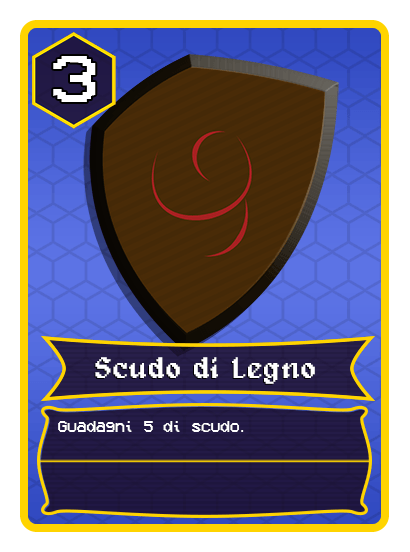
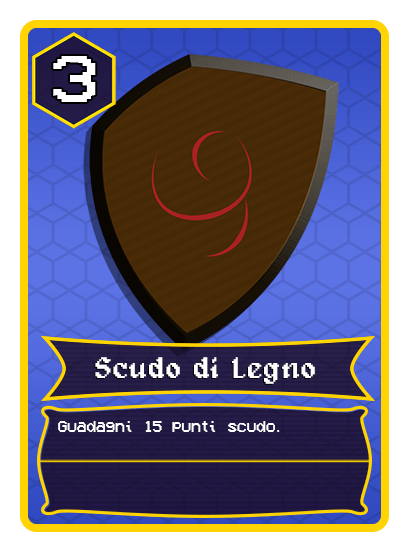
:hammer: Card correction and introduction
Ho modificato il mazzo con le nuove carte e ho apportato modifiche in modo tale che Ice e Poison non facciano andare in palla il gioco. Versione stabile - presente ancora sporadicamente bug player riga 67 e 76

Changed region(s): [[0.3512, 0.7391, 0.6732, 0.8007], [0.761, 0.2156, 0.7902, 0.308], [0.7902, 0.154, 0.8195, 0.1848]]

diff --git a/BattleScene/Enemy_BattleScene/Enemy_BattleScene.cs b/BattleScene/Enemy_BattleScene/Enemy_BattleScene.cs
@@ -21,6 +21,7 @@ public partial class Enemy_BattleScene : Characters_Battle, DeckUse
 	private CollisionShape2D collisionShape2D;
 	private Player_BattleScene player;
 	private CardAnimation cardAnimation_toawait;
+	private bool turnDone = false; //se il turno è finito (serve per evitare che il turno si ripeta a causa di ice)
 	#endregion
 	
 	#region NATURE ———————————————————————————————————————————————————————————————————————————
@@ -55,6 +56,8 @@ public partial class Enemy_BattleScene : Characters_Battle, DeckUse
 	
 	#region FUNZIONI ———————————————————————————————————————————————————————————————————————————
 	public void EndTurn(){ //termina il turno
+		GD.Print("Enemy: " + GetParent().Name + " EndTurn");
+		turnDone = false;
 		IsTurn = false;
 		EmitSignal("EndTurnSignal"); //invia il segnale per terminare il turno e passare al successivo
 	}
@@ -327,12 +330,10 @@ public partial class Enemy_BattleScene : Characters_Battle, DeckUse
 		return choosenCards; //resituiamo la coda di carte pronta per essere eseguita
 	}
 	public async void ExecutionCard(Queue<Card> cards){ //funzione per eseguire le carte
-		/*TESTING*/ GD.Print("Turno nemico iniziato");
 		Is_attacking = true; //l'enemy sta attaccando
 		var cards_count = cards.Count; //contiamo le carte, bisogna farlo prima perchè la coda cambia
 		for(int i = 0; i < cards_count; i++){
 			if (cards.Peek().ManaValue <= Mana){ //se la carta ha un costo minore o uguale al mana
-				/*TESTING*/ GD.Print("Carta eseguita: " + cards.Peek().CardName + " Mana: " + cards.Peek().ManaValue);
 				var selectedCard = cards.Dequeue(); //selezioniamo la carta
 				UseMana(selectedCard.ManaValue); //usiamo il mana
 				if (selectedCard.CardTarget == 2 /*Opponent*/){ // la carta è rivolta contro un avversario (player)
@@ -340,8 +341,8 @@ public partial class Enemy_BattleScene : Characters_Battle, DeckUse
 					selectedCard.ExecuteCard(player);
 					BattleDeck.HandsCard.RemoveCard(selectedCard); //rimuoviamo la carta dalla mano
 					EmitSignal("AnimateCardOnPlayer", selectedCard); //Animiamo la carta sul player
-				} else { //la carta è rivolta contro se stesso (nemico)
-					Animate("Attack"); //Animiamo il nemico che attacca
+				} else if (selectedCard.CardTarget == 1 /*Self*/){ //la carta è rivolta contro se stesso (nemico)
+					Animate("Passive"); //Animiamo il nemico che attacca
 					selectedCard.ExecuteCard(this);
 					BattleDeck.HandsCard.RemoveCard(selectedCard); //rimuoviamo la carta dalla mano
 					EmitSignal("AnimateCardOnEnemy", selectedCard, this); //animiamo la carta sul nemico
@@ -349,11 +350,9 @@ public partial class Enemy_BattleScene : Characters_Battle, DeckUse
 				await ToSignal(cardAnimation_toawait, "EnemyCardAnimationFinished"); //aspettiamo che l'animazione finisca
 				EmitSignal("CheckStatusBattleSignal"); //controlliamo lo stato della battaglia se qualcuno è morto
 			} else {
-				/*TESTING*/ GD.Print("Carta non eseguita: " + cards.Peek().Name);
 				continue;
 			}
 		}
-		/*TESTING*/ GD.Print("Turno nemico finito");
 		//una volta ciclate tutte le carte, finiamo il turno
 		Is_attacking = false;
 		EndTurn();
@@ -405,15 +404,20 @@ public partial class Enemy_BattleScene : Characters_Battle, DeckUse
 	}
 
 	public void _on_battle_scene_is_turn_signal(){ //funzione del segnale IsTurnSignal per eseguire la mossa quando è il turno del nemico
-        if (IsTurn){
-		    ResetMana(); //resettiamo il mana
-            DrawCard(); //peschiamo una carta
-			
-			//ENEMY AI
-			PlayerStatusAnalysis(player); //analizziamo lo stato del player
-			EnemyStatusAnalysis(); //analizziamo lo stato del nemico
-			var choosenCards = CardsInHandAnalysis(); //analizziamo le carte in mano
-			ExecutionCard(choosenCards); //eseguiamo le carte
+		/*TESTING*/GD.Print("Enemy: " + GetParent().Name + " IsTurn: " + IsTurn + " TurnDone: " + turnDone);
+		if (IsTurn && turnDone == false){
+			if (IsOnIce == false){
+				ResetMana(); //resettiamo il mana
+            	DrawCard(); //peschiamo una carta
+				//ENEMY AI
+				PlayerStatusAnalysis(player); //analizziamo lo stato del player
+				EnemyStatusAnalysis(); //analizziamo lo stato del nemico
+				var choosenCards = CardsInHandAnalysis(); //analizziamo le carte in mano
+				ExecutionCard(choosenCards); //eseguiamo le carte
+				turnDone = true;
+			} else if (IsOnIce) {
+				EndTurn();
+			} 
         }
     }
 
@@ -438,6 +442,10 @@ public partial class Enemy_BattleScene : Characters_Battle, DeckUse
 	public bool IsBoss{
 		get{return isBoss;}
 		set{isBoss = value;}
+	}
+	public bool TurnDone{
+		get{return turnDone;}
+		set{turnDone = value;}
 	}
 	#endregion
 }

diff --git a/BattleScene/BattleScene.cs b/BattleScene/BattleScene.cs
@@ -129,6 +129,8 @@ public partial class BattleScene : Node2D
 		ChangeTurn();
 	}
 	public void ChangeTurn(){ //funzione collegata tramite segnale Connect in enemy per il cambio turno
+		GD.Print("- - - CAMBIO TURNO - - -");
+		ResetEnemyTurnDone(); //resetta il turndone dei nemici nel caso non venga resettato precedentemente da endturn
 		Marker2D char_turn = turnQueue.Dequeue();
 		switch (char_turn.Name){
 			case "PlayerPosition":
@@ -136,56 +138,59 @@ public partial class BattleScene : Node2D
 				turnButton.Disabled = false; //abilita il bottone per terminare il turno
 				turnQueue.Enqueue(char_turn); //rimetto il player in coda
 				if (player.CheckElementalStatus()){  //controlla se il player è in uno stato elementale e nel caso salta il turno
-					GD.Print("Iced"); //TO-DO EFFETTO GRAFICO ICED
 					turnButton.EmitSignal("pressed"); //funziona solo con pressed e non Pressed
 				};
 				EmitSignal("PassEnemysToSelect", enemys); //passa i nemici selezionati
+				/*TESTING*/GD.Print("IS TURN SIGNAL PLAYER");
 				EmitSignal("IsTurnSignal"); //segnale per far fare la mossa al player
 				break;
 			case "EnemyPosition1":
 				char_turn.GetChild<Enemy_BattleScene>(0).IsTurn = true; //abilita il turno del nemico a fare la mossa
 				turnQueue.Enqueue(char_turn); //rimetto il nemico in coda
-				if (char_turn.GetChild<Enemy_BattleScene>(0).CheckElementalStatus()){  //controlla se il player è in uno stato elementale e nel caso salta il turno
-					char_turn.GetChild<Enemy_BattleScene>(0).EndTurn();
-				};
+				char_turn.GetChild<Enemy_BattleScene>(0).CheckElementalStatus();
 				EmitSignal("PassPlayerToSelect", player); //passa il player, lo faccio ad ogni cambio turno perchè bisogna aggiornare i dati del player
+				/*TESTING*/GD.Print("IS TURN SIGNAL ENEMY1");
 				EmitSignal("IsTurnSignal"); //segnale per far fare la mossa al nemico
 				break;
 			case "EnemyPosition2":
 				char_turn.GetChild<Enemy_BattleScene>(0).IsTurn = true; //abilita il turno del nemico a fare la mossa
 				turnQueue.Enqueue(char_turn); //rimetto il nemico in coda
-				if (char_turn.GetChild<Enemy_BattleScene>(0).CheckElementalStatus()){  //controlla se il player è in uno stato elementale e nel caso salta il turno
-					char_turn.GetChild<Enemy_BattleScene>(0).EndTurn();
-				};
+				char_turn.GetChild<Enemy_BattleScene>(0).CheckElementalStatus();
 				EmitSignal("PassPlayerToSelect", player); //passa il player, lo faccio ad ogni cambio turno perchè bisogna aggiornare i dati del player
+				/*TESTING*/GD.Print("IS TURN SIGNAL ENEMY 2");
 				EmitSignal("IsTurnSignal"); //segnale per far fare la mossa al nemico
 				break;
 			case "EnemyPosition3":
 				char_turn.GetChild<Enemy_BattleScene>(0).IsTurn = true; //abilita il turno del nemico a fare la mossa
 				turnQueue.Enqueue(char_turn); //rimetto il nemico in coda
-				if (char_turn.GetChild<Enemy_BattleScene>(0).CheckElementalStatus()){  //controlla se il player è in uno stato elementale e nel caso salta il turno
-					char_turn.GetChild<Enemy_BattleScene>(0).EndTurn();
-				};
+				char_turn.GetChild<Enemy_BattleScene>(0).CheckElementalStatus();
 				EmitSignal("PassPlayerToSelect", player); //passa il player, lo faccio ad ogni cambio turno perchè bisogna aggiornare i dati del player
+				/*TESTING*/GD.Print("IS TURN SIGNAL ENEMY 3");
 				EmitSignal("IsTurnSignal"); //segnale per far fare la mossa al nemico
 				break;
 		}
 	}
 
-	public void CheckStatusBattle(){ //controlla lo stato della battaglia 
+	public async void CheckStatusBattle(){ //controlla lo stato della battaglia 
 		//return false se la battaglia non è finita, ritorna true se la battaglia è finita
 		CheckEnemysLife(); // controlla quali nemici sono morti e li rimuove
 		if (player.Life <= 0){
 			//gameover
 			player.Animate("Dead");
 			player.PlaySound("dead");
+			await ToSignal(player.AnimationPlayer_char, "animation_finished");
 			GameOver();
 		} else if (CountElements(enemys) == 0){
 			//vittoria
 			Win();
 		}
 	}
-	
+	public void ResetEnemyTurnDone(){
+		foreach (Enemy_BattleScene enemy in enemys.Where(enemy => enemy != null)){
+			enemy.TurnDone = false;
+		}
+	}
+
 	public void Win(){//funzione vittoria da definire
 		//gestito poi da Dungeon
 		EmitSignal("WinSignal");
@@ -268,11 +273,6 @@ public partial class BattleScene : Node2D
 		//avvio l'animazione
 		enemy_BattleScene.GetParent<Marker2D>().GetChild<CardAnimation>(1).PlayAnimation("enemy");
 	}
-
-	/*public void _on_player_character_is_dead(){
-		//se il player muore, allora la battaglia finisce
-		GameOver();
-	}*/
 
 	public void _on_battle_music_finished(){
 		music_counter++;

diff --git a/BattleScene/Characters_Battle.cs b/BattleScene/Characters_Battle.cs
@@ -102,6 +102,7 @@ using System;
 		//faccio partire il suono
 		if (value < 0){ //controlliamo se togliamo o aggiungiamo vita
 			PlaySound("hit");
+			animationPlayer_char.Play("TakeDamage");
 		} else {
 			PlaySound("passive");
 		}
@@ -113,7 +114,7 @@ using System;
 		//controlliamo se la vita è arrivata a 0 e nel caso emettiamo il segnale per dire che il character è morto
 		if(life <= 0){
 				life = 0;
-			}
+		}
 		EmitSignal("UpdateStatsGUI", shield, life, mana, isOnFire, isOnIce, isOnPoison, isOnEarth); //emette il segnale per aggiornare le statsGUI
 	}
 	public void AddMana(int value){ //non dovrebbe servire
@@ -133,6 +134,7 @@ using System;
 		EmitSignal("UpdateStatsGUI", shield, life, mana, isOnFire, isOnIce, isOnPoison, isOnEarth); //emette il segnale per aggiornare le statsGUI
 	}
 	public void ResetMana(){
+		//ghiaccio priorità su veleno per questo eseguito per ultimo
 		if (isOnPoison){
 			mana = max_mana/2;
 		} else {
@@ -156,22 +158,22 @@ using System;
 	public Boolean CheckElementalStatus(){ //funzione per controllare se il character è in uno stato elementale
 	//il character può trovarsi in tutti gli stati elementali
 	//ritorna false se non salta il turno, ritorna true se lo salta.
+		bool skipTurn = false;
 		if (isOnFire){
 			if (fireDamage.Y > 0){
-				TakeDamage((1/6)*life); //riduciamo la vita ad un sesto
+				TakeDamage((int)(0.167F * life)); //riduciamo la vita ad un sesto
 				fireDamage.Y--; //diminuiamo il turno
 			} else {
 				isOnFire = false;
 			}
-			return false;
+			skipTurn = false;
 		}
 		if (isOnIce && iceTurns > 0){
 			iceTurns--; //diminuiamo il turno
 			if (iceTurns == 0){ // se il turno arriva a zero, lo stato si disattiva
 				isOnIce = false;
 			}
-			/*TESTING*/GD.Print(Name + " ice: "+ isOnIce.ToString());
-			return true;
+			skipTurn = true;
 		}
 		if (isOnPoison){
 			if (poisonDamage.Y > 0){
@@ -181,14 +183,14 @@ using System;
 			} else {
 				isOnPoison = false;
 			}
-			return false;
+			skipTurn = false; 
 		}
 		if (isOnEarth){
 			//TO-DO
 		}
 		EmitSignal("UpdateStatsGUI", shield, life, mana, isOnFire, isOnIce, isOnPoison, isOnEarth); //emette il segnale per aggiornare le statsGUI
 		EmitSignal("CheckStatusBattleSignal"); //emette il segnale per controllare se il character è morto o ha ucciso qualcuno
-		return false; // Aggiunto return false per gestire il caso in cui nessuno dei precedenti if venga soddisfatto
+		return skipTurn; // Aggiunto return false per gestire il caso in cui nessuno dei precedenti if venga soddisfatto
 	}
 	public Boolean CheckIfOnStatus(){ //serve a controllare se il character è in uno stato elementale
 		if (isOnFire || isOnIce || isOnPoison || isOnEarth){

diff --git a/Deck/Card/Card.cs b/Deck/Card/Card.cs
@@ -108,7 +108,7 @@ public partial class Card : TextureRect
 				if (foreachEnemy == true) {
 					enemy.AddLife(enemyNumValue * (damageValue + specValue)); //DA CAMBIARE
 				} else if (foreachEnemy == false) {
-					enemy.AddLife(1 + damageValue + specValue); //DA CAMBIARE
+					enemy.AddLife(damageValue + specValue); //DA CAMBIARE
 				}
 				break;
 			case 2: //Shield
@@ -127,7 +127,7 @@ public partial class Card : TextureRect
 				if (foreachEnemy == true) {
 					enemy.AddShield(enemyNumValue * (damageValue + specValue)); //DA CAMBIARE
 				} else if (foreachEnemy == false){
-					enemy.AddShield(1 + damageValue + specValue); //DA CAMBIARE
+					enemy.AddShield(damageValue + specValue); //DA CAMBIARE
 				}
 				break;
 		}
@@ -171,14 +171,14 @@ public partial class Card : TextureRect
 				if (foreachEnemy == true) {
 					player.AddLife(enemyNumValue * (damageValue + specValue)); //DA CAMBIARE
 				} else if (foreachEnemy == false) {
-					player.AddLife(1 + damageValue + specValue); //DA CAMBIARE
+					player.AddLife(damageValue + specValue); //DA CAMBIARE
 				}
 				break;
 			case 2: //Shield
 				if (foreachEnemy == true) {
 					player.AddShield(enemyNumValue * (damageValue + specValue)); //DA CAMBIARE
 				} else if (foreachEnemy == false){
-					player.AddShield(1 + damageValue + specValue); //DA CAMBIARE
+					player.AddShield(damageValue + specValue); //DA CAMBIARE
 				}
 				break;
 			case 3: //HealAndShield
@@ -190,7 +190,7 @@ public partial class Card : TextureRect
 				if (foreachEnemy == true) {
 					player.AddShield(enemyNumValue * (damageValue + specValue)); //DA CAMBIARE
 				} else if (foreachEnemy == false){
-					player.AddShield(1 + damageValue + specValue); //DA CAMBIARE
+					player.AddShield(damageValue + specValue); //DA CAMBIARE
 				}
 				break;
 		}

diff --git a/BattleScene/Dungeon.cs b/BattleScene/Dungeon.cs
@@ -25,8 +25,8 @@ public partial class Dungeon : Node
 		battleWin_Screen = GetNode<Control>("Win_OverContainer/BattleWin_Screen");
 		selectSound = GetNode<AudioStreamPlayer>("SFX&Music/SelectSound");
 
-		gameover_Screen.Hide();
-		battleWin_Screen.Hide();
+		gameover_Screen.GetNode<CanvasLayer>("CanvasLayer").Hide();
+		battleWin_Screen.GetNode<CanvasLayer>("CanvasLayer").Hide();
 	}
 	#endregion
 
@@ -45,7 +45,7 @@ public partial class Dungeon : Node
 		//blocco il processamento della stanza, senza eliminarla
 		roomContainer.GetChild<BattleScene>(0).ProcessMode = Godot.Node.ProcessModeEnum.Disabled;
 		//carico la scena del gameover
-		gameover_Screen.Show();
+		gameover_Screen.GetNode<CanvasLayer>("CanvasLayer").Show();
 	}
 	public void Win(){
 		//blocco il processamento della stanza, senza eliminarla
@@ -54,7 +54,7 @@ public partial class Dungeon : Node
 		room_number++;
 		if (room_number == CountRooms()){ //nel caso il numero della stanza sia uguale alla lunghezza dell'array, significa che ho finito le stanze
 			//carico la scena della vittoria
-			battleWin_Screen.Show();
+			battleWin_Screen.GetNode<CanvasLayer>("CanvasLayer").Show();
 		} else {
 			//carico la scena della stanza successiva
 			ChangeRoomTo(room_number);

diff --git a/Deck/Card/CardAnimation.cs b/Deck/Card/CardAnimation.cs
@@ -14,12 +14,13 @@ public partial class CardAnimation : Sprite2D //Scena da allegare alla Card, è 
 
 	#region ATTRIBUTI ———————————————————————————————————————————————————————————————————————————
 	private string caster; //nome del caster
+	private AnimationPlayer animationPlayer;
 	#endregion
 
 	#region FUNZIONI ———————————————————————————————————————————————————————————————————————————
 	public void PlayAnimation(string caster){ //eseguiamo l'animazione creta
 		this.caster = caster; //salviamo il caster, serve a capire chi esegue l'animazione
-		AnimationPlayer animationPlayer = GetNode<AnimationPlayer>("AnimationPlayer");
+		animationPlayer = GetNode<AnimationPlayer>("AnimationPlayer");
 		animationPlayer.Play("BattleCardAnimation");
 	}
 	#endregion

diff --git a/BattleScene/Player_BattleScene/Player_BattleScene.cs b/BattleScene/Player_BattleScene/Player_BattleScene.cs
@@ -74,8 +74,6 @@ public partial class Player_BattleScene : Characters_Battle, DeckUse
     public void UseCard(){ //funzione chiamata per usare la carta
         Is_attacking = true; //il player sta attaccando
         UseMana(selectedCard.ManaValue); //usiamo il mana //ERROR OGNI TANTO GENATATO UN ERRORE IN CUI LA CARTA SELEZIONATA NON ESISTE, NON SO PERCHE
-        /*PER TESTING*/ GD.Print("Mana: " + Mana);
-
         //passiamo il valore dei nemici vivi contando anche i boss che valgono 3
         var enemyValueCount = 0;
         foreach(Enemy_BattleScene enemy in enemys.Where(e => e != null)){
